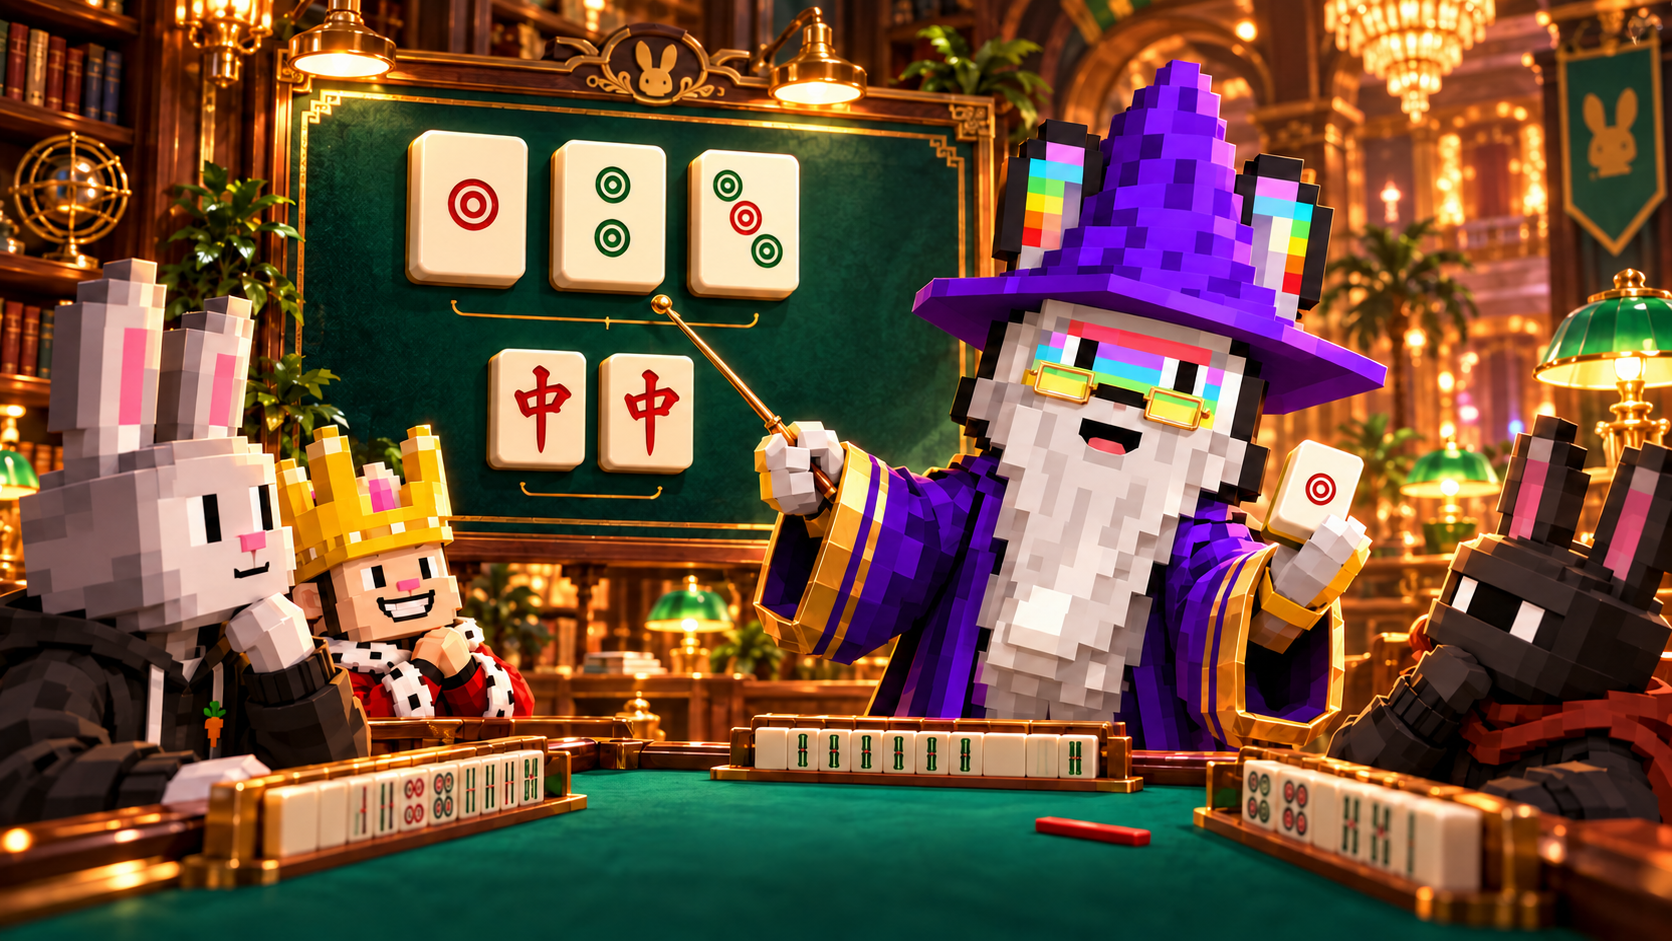
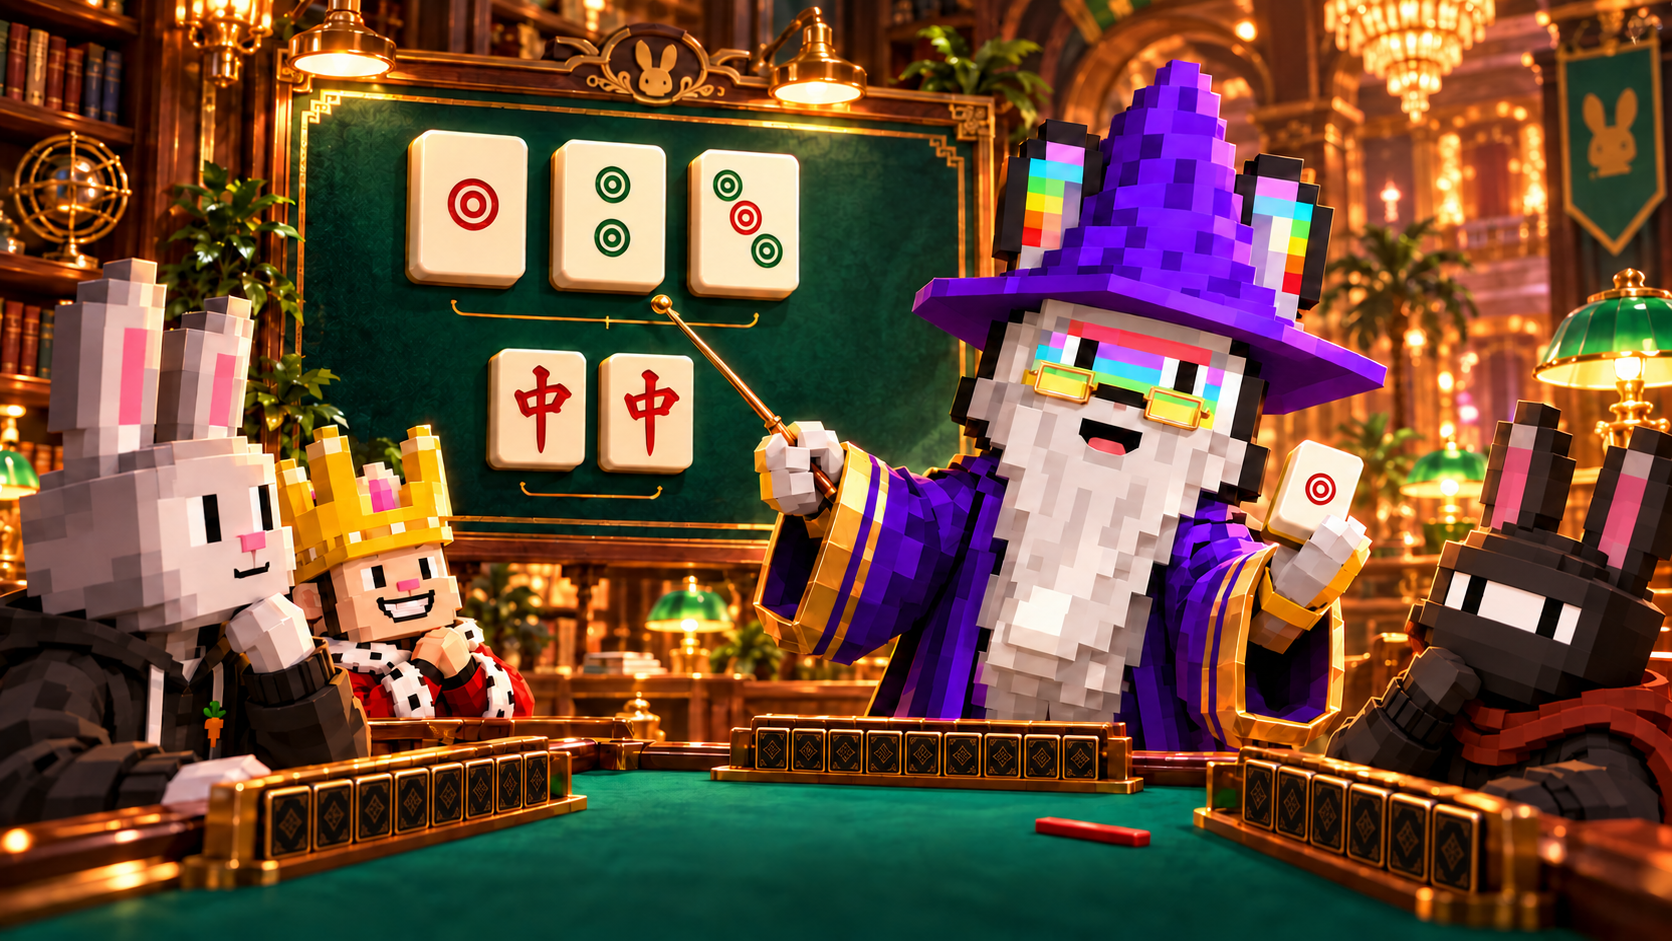
ART: clarify ninja eyes and use black-gold tile backs in academy concept

diff --git a/ART/academy-entry-v1/README.md b/ART/academy-entry-v1/README.md
@@ -5,3 +5,5 @@
 巫師兔擔任麻雀老師，黑帽T兔、國王兔與忍者兔一起學習。黑板展示一二三筒順子與紅中對子；翡翠黑金場景配合現有 BOT 對局／VS 玩家大廳入口。
 
 此圖為入口主視覺設計，尚未套用到公開遊戲的大廳入口。下方預留即時繪製「新手學堂」標題的位置，避免中英文標題固定在圖片內。
+
+第二版：忍者兔轉向觀眾，清楚露出白色眼罩區及雙眼；枱面三組手牌全部改為黑金牌背朝向觀眾。黑板與老師手持的教學牌面保留。
